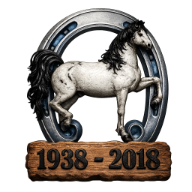
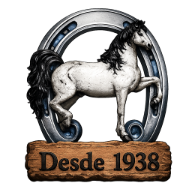
Updates

diff --git a/index.html b/index.html
@@ -36,13 +36,13 @@
     <link href="https://cdnjs.cloudflare.com/ajax/libs/font-awesome/6.7.2/css/all.min.css" rel="stylesheet">
     
     <!-- Favicons -->
-    <link rel="icon" type="image/png" href="/assets/favicon-96x96-A1-h6Vfy.png" sizes="96x96" />
-    <link rel="icon" type="image/svg+xml" href="/src/assets/favicon.svg" />
-    <link rel="shortcut icon" href="/assets/favicon-DoJS28RA.ico" />
-    <link rel="apple-touch-icon" sizes="180x180" href="/assets/apple-touch-icon-D-D1Knol.png" />
+    <link rel="icon" type="image/png" href="/assets/favicon-96x96-Cl3pcL0H.png" sizes="96x96" />
+    <link rel="icon" type="image/svg+xml" href="/assets/favicon-CWAzQ5VS.svg" />
+    <link rel="shortcut icon" href="/assets/favicon-D7cdX-2k.ico" />
+    <link rel="apple-touch-icon" sizes="180x180" href="/assets/apple-touch-icon-DQNXD5Yu.png" />
     
     <!-- El manifest y service worker los inyecta vite-plugin-pwa automáticamente -->
-  <script type="module" crossorigin src="/assets/main-DLc5Fia_.js"></script>
+  <script type="module" crossorigin src="/assets/main-B-Vrjqs4.js"></script>
   <link rel="stylesheet" crossorigin href="/assets/main-CpHC58gh.css">
 <link rel="manifest" href="/manifest.webmanifest"><script id="vite-plugin-pwa:register-sw" src="/registerSW.js"></script></head>
 
@@ -82,7 +82,7 @@
                 </div>
 
                 <div class="col-10 subtitulo_ text-justify">
-                    <h6>En Talabartería Chuy ponemos a su disposición una amplia experiencia en trabajos de talabartería y artículos de cuero. Nos especializamos en la fabricación, reparación y mantenimiento de productos destinados tanto al trabajo de campo como al uso tradicional, combinando artesanía, calidad y atención personalizada.</h6>
+                    <h6>En Talabartería Chuy ponemos a su disposición una amplia experiencia en trabajos de talabartería y artículos de cuero. Nos especializamos en la fabricación, reparación y mantenimiento de productos destinados tanto al trabajo de campo como al uso deportivo, combinando artesanía, calidad y atención personalizada.</h6>
                     <h6>Nuestro objetivo es brindar soluciones duraderas y adaptadas a las necesidades de cada cliente, preservando el valor de los oficios tradicionales y ofreciendo productos confeccionados con dedicación y materiales seleccionados.</h6>
                 </div>
             </div>

diff --git a/sw.js b/sw.js
@@ -1,1 +1,1 @@
-if(!self.define){let e,r={};const s=(s,i)=>(s=new URL(s+".js",i).href,r[s]||new Promise(r=>{if("document"in self){const e=document.createElement("script");e.src=s,e.onload=r,document.head.appendChild(e)}else e=s,importScripts(s),r()}).then(()=>{let e=r[s];if(!e)throw new Error(`Module ${s} didn’t register its module`);return e}));self.define=(i,n)=>{const o=e||("document"in self?document.currentScript.src:"")||location.href;if(r[o])return;let a={};const c=e=>s(e,o),d={module:{uri:o},exports:a,require:c};r[o]=Promise.all(i.map(e=>d[e]||c(e))).then(e=>(n(...e),a))}}define(["./workbox-a3c94b52"],function(e){"use strict";self.skipWaiting(),e.clientsClaim(),e.precacheAndRoute([{url:"web-app-manifest-512x512.png",revision:"d416ae612f5ac2ee26ad9b78ca0d8fc4"},{url:"web-app-manifest-192x192.png",revision:"dc7294af2798e01a5535d8308ddca67d"},{url:"registerSW.js",revision:"1872c500de691dce40960bb85481de07"},{url:"productos.json",revision:"41fc40de803d9cfe4ee98addc85135fe"},{url:"index.html",revision:"798c06461e51332d7724192eba4a494d"},{url:"icons.svg",revision:"21c7473c592c67dc87223d49892c8f0a"},{url:"icon-512x512.png",revision:"b854edbe9b72a907c67d2cc8064c4bee"},{url:"icon-192x192.png",revision:"a8a6be824d0660f66ffb2fe907e9a634"},{url:"favicon.svg",revision:"d013eacca6b099ff612a6781523f2e81"},{url:"favicon-32x32.png",revision:"40aefc9570a3622278ede13534d295d7"},{url:"favicon-16x16.png",revision:"5f9237f46a896b2285b00976fda328d4"},{url:"apple-touch-icon.png",revision:"add6530fb3b8585825f284f610734d0e"},{url:"productos/silleta_carro.jpg",revision:"ef9825b45bcbf1fc2135f1e756c70fd7"},{url:"productos/materas_1.jpg",revision:"cf256bed98e2c55d47c8fcb5212d8c00"},{url:"productos/materas.jpg",revision:"54f7ba6728a72beb101e82cdf2320b6b"},{url:"productos/guarda_monte.jpg",revision:"ff86f99e9fd315281bb24555096589d4"},{url:"productos/estribo_hierro.jpg",revision:"f0c1c55214f615879d7a8ba992194f25"},{url:"productos/estribo_estribera.jpg",revision:"fb3c1482a967e7991d0ff1ab95ede1b3"},{url:"productos/encimera_suela.jpg",revision:"69c7d8e115ce50f0e6061fd62cea47f7"},{url:"productos/encimera_sinchon.jpg",revision:"09dcae1d6758d6b7836d11462819693f"},{url:"productos/encimera_cuero.jpg",revision:"441dce0e8dcfac0b50cc1a2f5c379c96"},{url:"productos/encimera_cincho.jpg",revision:"6f0f51c6c82f014695ae9d04b0ccc249"},{url:"productos/encimera_bordada.jpg",revision:"47afb1a8a6cff8ae302914b5b3a81c8e"},{url:"productos/cinchon_bordado.jpg",revision:"c68d28a7753ac40886848f2c89ba8910"},{url:"productos/cinchon.jpg",revision:"18b706f94363835582bf0325eefd44db"},{url:"productos/cabezada_cuadra.jpg",revision:"2c6044f8d801e10c39432f312a831037"},{url:"productos/barriguera_algodon.jpg",revision:"26e5385206d859522b7dd0628a9d75bb"},{url:"productos/arreo_carro.jpg",revision:"8bd4d0a131b06e915867bca30d72bf62"},{url:"Iconos/reparaciones.png",revision:"b09de7f282ffcee796cfa673fc75c5f6"},{url:"Iconos/personalizaciones.png",revision:"bf6b150ee6116c0d5aa9beece597d6d5"},{url:"Iconos/marroquinerias.png",revision:"6386da054dccb6ad3ccd89b3908c38c7"},{url:"Iconos/fabricacion.png",revision:"82a1db8b3a1a69d37573c411e005bc40"},{url:"assets/whatsapp-qBxjryja.gif",revision:null},{url:"assets/Talabarteria-Dl_xBJOG.png",revision:null},{url:"assets/separador_2-tHU-tLNG.png",revision:null},{url:"assets/reparacion_restauracion-w78dYiNd.png",revision:null},{url:"assets/reparaciones-Cre_eghZ.png",revision:null},{url:"assets/personalizaciones-BMVBpVFw.png",revision:null},{url:"assets/personalizacion-DGWw9pDD.png",revision:null},{url:"assets/perfil-DJ47bz_q.jpg",revision:null},{url:"assets/marroquinerias-DQ9tssTr.png",revision:null},{url:"assets/marroquineria-3OU5nmna.png",revision:null},{url:"assets/main-DLc5Fia_.js",revision:null},{url:"assets/main-CpHC58gh.css",revision:null},{url:"assets/logo_talabarteria-BM8YFebV.png",revision:null},{url:"assets/logo_50x50-C3c1e8R6.png",revision:null},{url:"assets/favicon-DoJS28RA.ico",revision:null},{url:"assets/favicon-96x96-A1-h6Vfy.png",revision:null},{url:"assets/fabricacion_a_medida-B2NdKjLW.png",revision:null},{url:"assets/fabricacion-Dbmsv9n5.png",revision:null},{url:"assets/banner_-C2k-K8PU.png",revision:null},{url:"assets/back_contacto-CNJVdEaJ.jpg",revision:null},{url:"assets/back_about-8ey6-0or.png",revision:null},{url:"assets/apple-touch-icon-D-D1Knol.png",revision:null},{url:"assets/9-ZRi16Nw-.jpeg",revision:null},{url:"assets/8-T-JmSrh3.jpeg",revision:null},{url:"assets/7-B-dvPvXy.jpeg",revision:null},{url:"assets/6-4c2EX20q.jpeg",revision:null},{url:"assets/5-C_WstS0m.jpeg",revision:null},{url:"assets/4-DKJUPlfG.jpeg",revision:null},{url:"assets/3-CXhumFNK.jpeg",revision:null},{url:"assets/2-De2SiynE.jpeg",revision:null},{url:"assets/11-DF8VjLB4.jpeg",revision:null},{url:"assets/10-CCC-CS1y.jpeg",revision:null},{url:"assets/1-RMnc9Jd3.jpeg",revision:null},{url:"apple-touch-icon.png",revision:"add6530fb3b8585825f284f610734d0e"},{url:"favicon-16x16.png",revision:"5f9237f46a896b2285b00976fda328d4"},{url:"favicon-32x32.png",revision:"40aefc9570a3622278ede13534d295d7"},{url:"favicon.svg",revision:"d013eacca6b099ff612a6781523f2e81"},{url:"icon-192x192.png",revision:"a8a6be824d0660f66ffb2fe907e9a634"},{url:"icon-512x512.png",revision:"b854edbe9b72a907c67d2cc8064c4bee"},{url:"icons.svg",revision:"21c7473c592c67dc87223d49892c8f0a"},{url:"web-app-manifest-192x192.png",revision:"dc7294af2798e01a5535d8308ddca67d"},{url:"web-app-manifest-512x512.png",revision:"d416ae612f5ac2ee26ad9b78ca0d8fc4"},{url:"Iconos/fabricacion.png",revision:"82a1db8b3a1a69d37573c411e005bc40"},{url:"Iconos/marroquinerias.png",revision:"6386da054dccb6ad3ccd89b3908c38c7"},{url:"Iconos/personalizaciones.png",revision:"bf6b150ee6116c0d5aa9beece597d6d5"},{url:"Iconos/reparaciones.png",revision:"b09de7f282ffcee796cfa673fc75c5f6"},{url:"productos/arreo_carro.jpg",revision:"8bd4d0a131b06e915867bca30d72bf62"},{url:"productos/barriguera_algodon.jpg",revision:"26e5385206d859522b7dd0628a9d75bb"},{url:"productos/cabezada_cuadra.jpg",revision:"2c6044f8d801e10c39432f312a831037"},{url:"productos/cinchon.jpg",revision:"18b706f94363835582bf0325eefd44db"},{url:"productos/cinchon_bordado.jpg",revision:"c68d28a7753ac40886848f2c89ba8910"},{url:"productos/encimera_bordada.jpg",revision:"47afb1a8a6cff8ae302914b5b3a81c8e"},{url:"productos/encimera_cincho.jpg",revision:"6f0f51c6c82f014695ae9d04b0ccc249"},{url:"productos/encimera_cuero.jpg",revision:"441dce0e8dcfac0b50cc1a2f5c379c96"},{url:"productos/encimera_sinchon.jpg",revision:"09dcae1d6758d6b7836d11462819693f"},{url:"productos/encimera_suela.jpg",revision:"69c7d8e115ce50f0e6061fd62cea47f7"},{url:"productos/estribo_estribera.jpg",revision:"fb3c1482a967e7991d0ff1ab95ede1b3"},{url:"productos/estribo_hierro.jpg",revision:"f0c1c55214f615879d7a8ba992194f25"},{url:"productos/guarda_monte.jpg",revision:"ff86f99e9fd315281bb24555096589d4"},{url:"productos/materas.jpg",revision:"54f7ba6728a72beb101e82cdf2320b6b"},{url:"productos/materas_1.jpg",revision:"cf256bed98e2c55d47c8fcb5212d8c00"},{url:"productos/silleta_carro.jpg",revision:"ef9825b45bcbf1fc2135f1e756c70fd7"},{url:"manifest.webmanifest",revision:"9a19c2bade392e8ae32f32d1ddb80ff2"}],{}),e.cleanupOutdatedCaches(),e.registerRoute(new e.NavigationRoute(e.createHandlerBoundToURL("index.html"))),e.registerRoute(/\.(?:png|jpg|jpeg|gif|svg|ico|webp)$/,new e.StaleWhileRevalidate({cacheName:"images",plugins:[new e.ExpirationPlugin({maxEntries:64,maxAgeSeconds:86400})]}),"GET"),e.registerRoute(/\.(?:js|css)$/,new e.StaleWhileRevalidate({cacheName:"static-assets",plugins:[new e.ExpirationPlugin({maxEntries:32,maxAgeSeconds:86400})]}),"GET")});
+if(!self.define){let e,r={};const s=(s,i)=>(s=new URL(s+".js",i).href,r[s]||new Promise(r=>{if("document"in self){const e=document.createElement("script");e.src=s,e.onload=r,document.head.appendChild(e)}else e=s,importScripts(s),r()}).then(()=>{let e=r[s];if(!e)throw new Error(`Module ${s} didn’t register its module`);return e}));self.define=(i,c)=>{const o=e||("document"in self?document.currentScript.src:"")||location.href;if(r[o])return;let n={};const a=e=>s(e,o),l={module:{uri:o},exports:n,require:a};r[o]=Promise.all(i.map(e=>l[e]||a(e))).then(e=>(c(...e),n))}}define(["./workbox-a3c94b52"],function(e){"use strict";self.skipWaiting(),e.clientsClaim(),e.precacheAndRoute([{url:"web-app-manifest-512x512.png",revision:"1fcc3c67e2314c8758c39ef1cf746798"},{url:"web-app-manifest-192x192.png",revision:"e175a567dc584cbcaa2ce22bf07f67f4"},{url:"registerSW.js",revision:"1872c500de691dce40960bb85481de07"},{url:"productos.json",revision:"41fc40de803d9cfe4ee98addc85135fe"},{url:"index.html",revision:"540a19a52b8221983e92b5e2e1dc39db"},{url:"favicon.svg",revision:"89b652ce36528b655fcca48c22a768f3"},{url:"favicon.ico",revision:"fae4ff31c732e6c7fb1b2f96607d1ddc"},{url:"favicon-96x96.png",revision:"3a79e6f759c109c71095ac3cdfcf6cbd"},{url:"apple-touch-icon.png",revision:"e6d3d750296d6a3bb3caa6581357ead6"},{url:"productos/silleta_carro.jpg",revision:"ef9825b45bcbf1fc2135f1e756c70fd7"},{url:"productos/materas_1.jpg",revision:"cf256bed98e2c55d47c8fcb5212d8c00"},{url:"productos/materas.jpg",revision:"54f7ba6728a72beb101e82cdf2320b6b"},{url:"productos/guarda_monte.jpg",revision:"ff86f99e9fd315281bb24555096589d4"},{url:"productos/estribo_hierro.jpg",revision:"f0c1c55214f615879d7a8ba992194f25"},{url:"productos/estribo_estribera.jpg",revision:"fb3c1482a967e7991d0ff1ab95ede1b3"},{url:"productos/encimera_suela.jpg",revision:"69c7d8e115ce50f0e6061fd62cea47f7"},{url:"productos/encimera_sinchon.jpg",revision:"09dcae1d6758d6b7836d11462819693f"},{url:"productos/encimera_cuero.jpg",revision:"441dce0e8dcfac0b50cc1a2f5c379c96"},{url:"productos/encimera_cincho.jpg",revision:"6f0f51c6c82f014695ae9d04b0ccc249"},{url:"productos/encimera_bordada.jpg",revision:"47afb1a8a6cff8ae302914b5b3a81c8e"},{url:"productos/cinchon_bordado.jpg",revision:"c68d28a7753ac40886848f2c89ba8910"},{url:"productos/cinchon.jpg",revision:"18b706f94363835582bf0325eefd44db"},{url:"productos/cabezada_cuadra.jpg",revision:"2c6044f8d801e10c39432f312a831037"},{url:"productos/barriguera_algodon.jpg",revision:"26e5385206d859522b7dd0628a9d75bb"},{url:"productos/arreo_carro.jpg",revision:"8bd4d0a131b06e915867bca30d72bf62"},{url:"Iconos/reparaciones.png",revision:"b09de7f282ffcee796cfa673fc75c5f6"},{url:"Iconos/personalizaciones.png",revision:"bf6b150ee6116c0d5aa9beece597d6d5"},{url:"Iconos/marroquinerias.png",revision:"6386da054dccb6ad3ccd89b3908c38c7"},{url:"Iconos/fabricacion.png",revision:"82a1db8b3a1a69d37573c411e005bc40"},{url:"assets/whatsapp-qBxjryja.gif",revision:null},{url:"assets/Talabarteria-Dl_xBJOG.png",revision:null},{url:"assets/separador_2-tHU-tLNG.png",revision:null},{url:"assets/reparacion_restauracion-w78dYiNd.png",revision:null},{url:"assets/reparaciones-Cre_eghZ.png",revision:null},{url:"assets/personalizaciones-BMVBpVFw.png",revision:null},{url:"assets/personalizacion-DGWw9pDD.png",revision:null},{url:"assets/perfil-DJ47bz_q.jpg",revision:null},{url:"assets/marroquinerias-DQ9tssTr.png",revision:null},{url:"assets/marroquineria-3OU5nmna.png",revision:null},{url:"assets/main-CpHC58gh.css",revision:null},{url:"assets/main-B-Vrjqs4.js",revision:null},{url:"assets/logo_talabarteria-BM8YFebV.png",revision:null},{url:"assets/logo_50x50-C3c1e8R6.png",revision:null},{url:"assets/favicon-D7cdX-2k.ico",revision:null},{url:"assets/favicon-CWAzQ5VS.svg",revision:null},{url:"assets/favicon-96x96-Cl3pcL0H.png",revision:null},{url:"assets/fabricacion_a_medida-B2NdKjLW.png",revision:null},{url:"assets/fabricacion-Dbmsv9n5.png",revision:null},{url:"assets/banner_-C2k-K8PU.png",revision:null},{url:"assets/back_contacto-CNJVdEaJ.jpg",revision:null},{url:"assets/back_about-8ey6-0or.png",revision:null},{url:"assets/apple-touch-icon-DQNXD5Yu.png",revision:null},{url:"assets/9-ZRi16Nw-.jpeg",revision:null},{url:"assets/8-T-JmSrh3.jpeg",revision:null},{url:"assets/7-B-dvPvXy.jpeg",revision:null},{url:"assets/6-4c2EX20q.jpeg",revision:null},{url:"assets/5-C_WstS0m.jpeg",revision:null},{url:"assets/4-DKJUPlfG.jpeg",revision:null},{url:"assets/3-CXhumFNK.jpeg",revision:null},{url:"assets/2-De2SiynE.jpeg",revision:null},{url:"assets/11-DF8VjLB4.jpeg",revision:null},{url:"assets/10-CCC-CS1y.jpeg",revision:null},{url:"assets/1-RMnc9Jd3.jpeg",revision:null},{url:"apple-touch-icon.png",revision:"e6d3d750296d6a3bb3caa6581357ead6"},{url:"favicon-96x96.png",revision:"3a79e6f759c109c71095ac3cdfcf6cbd"},{url:"favicon.ico",revision:"fae4ff31c732e6c7fb1b2f96607d1ddc"},{url:"favicon.svg",revision:"89b652ce36528b655fcca48c22a768f3"},{url:"web-app-manifest-192x192.png",revision:"e175a567dc584cbcaa2ce22bf07f67f4"},{url:"web-app-manifest-512x512.png",revision:"1fcc3c67e2314c8758c39ef1cf746798"},{url:"Iconos/fabricacion.png",revision:"82a1db8b3a1a69d37573c411e005bc40"},{url:"Iconos/marroquinerias.png",revision:"6386da054dccb6ad3ccd89b3908c38c7"},{url:"Iconos/personalizaciones.png",revision:"bf6b150ee6116c0d5aa9beece597d6d5"},{url:"Iconos/reparaciones.png",revision:"b09de7f282ffcee796cfa673fc75c5f6"},{url:"productos/arreo_carro.jpg",revision:"8bd4d0a131b06e915867bca30d72bf62"},{url:"productos/barriguera_algodon.jpg",revision:"26e5385206d859522b7dd0628a9d75bb"},{url:"productos/cabezada_cuadra.jpg",revision:"2c6044f8d801e10c39432f312a831037"},{url:"productos/cinchon.jpg",revision:"18b706f94363835582bf0325eefd44db"},{url:"productos/cinchon_bordado.jpg",revision:"c68d28a7753ac40886848f2c89ba8910"},{url:"productos/encimera_bordada.jpg",revision:"47afb1a8a6cff8ae302914b5b3a81c8e"},{url:"productos/encimera_cincho.jpg",revision:"6f0f51c6c82f014695ae9d04b0ccc249"},{url:"productos/encimera_cuero.jpg",revision:"441dce0e8dcfac0b50cc1a2f5c379c96"},{url:"productos/encimera_sinchon.jpg",revision:"09dcae1d6758d6b7836d11462819693f"},{url:"productos/encimera_suela.jpg",revision:"69c7d8e115ce50f0e6061fd62cea47f7"},{url:"productos/estribo_estribera.jpg",revision:"fb3c1482a967e7991d0ff1ab95ede1b3"},{url:"productos/estribo_hierro.jpg",revision:"f0c1c55214f615879d7a8ba992194f25"},{url:"productos/guarda_monte.jpg",revision:"ff86f99e9fd315281bb24555096589d4"},{url:"productos/materas.jpg",revision:"54f7ba6728a72beb101e82cdf2320b6b"},{url:"productos/materas_1.jpg",revision:"cf256bed98e2c55d47c8fcb5212d8c00"},{url:"productos/silleta_carro.jpg",revision:"ef9825b45bcbf1fc2135f1e756c70fd7"},{url:"manifest.webmanifest",revision:"9a19c2bade392e8ae32f32d1ddb80ff2"}],{}),e.cleanupOutdatedCaches(),e.registerRoute(new e.NavigationRoute(e.createHandlerBoundToURL("index.html"))),e.registerRoute(/\.(?:png|jpg|jpeg|gif|svg|ico|webp)$/,new e.StaleWhileRevalidate({cacheName:"images",plugins:[new e.ExpirationPlugin({maxEntries:64,maxAgeSeconds:86400})]}),"GET"),e.registerRoute(/\.(?:js|css)$/,new e.StaleWhileRevalidate({cacheName:"static-assets",plugins:[new e.ExpirationPlugin({maxEntries:32,maxAgeSeconds:86400})]}),"GET")});